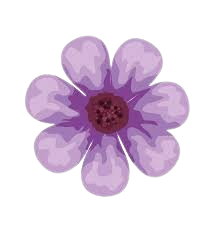
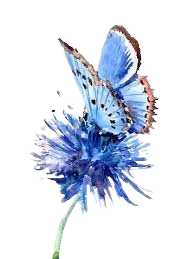
v2
v2

diff --git a/index.html b/index.html
@@ -5,10 +5,13 @@
     <meta charset="UTF-8">
     <meta name="viewport" content="width=device-width, initial-scale=1.0">
     <title>Mariana Kuhnen</title>
+    
+    <link rel="stylesheet" href="./css/index.css">
     <link rel="stylesheet" href="./css/header.css">
 </head>
 
 <body>
+    
     <header>
         <div id="logo_proficao">
             <img src="./images-removebg-preview.png" alt="Logo">
@@ -31,11 +34,12 @@
     </header>
     <section>
         <div id="img_principal">
-            <img src="https://png.pngtree.com/png-clipart/20231021/original/pngtree-watercolor-purple-flower-png-image_13393703.png">
+            <img src="il_570xN.4772852590_jq7l-removebg-preview.png" alt="">
         </div>
         <div id="infos">
-            <h1 id="primeiro_nome">Mariana</h1>
-            <h1 id="segundo_nome" class="cor_verde">Kuhnen</h1>
+           
+            <h3 id="primeiro_nome">Mariana</h3>
+            <h2 id="segundo_nome" class="cor_verde">Kuhnen</h2>
             <p>a vida é um jardim, e você escolhe quais flores cultivar</p>
         </div>
     </section>
@@ -45,5 +49,9 @@
         </button>
     </footer>
 </body>
+<iframe width="560" height="315" src="https://www.youtube.com/embed/SWQwPXtxIXg?si=b2gyBSvzuzSpRJWW" title="YouTube video player" frameborder="0" allow="accelerometer; autoplay; clipboard-write; encrypted-media; gyroscope; picture-in-picture; web-share" referrerpolicy="strict-origin-when-cross-origin" allowfullscreen></iframe>
 
 </html>
+
+
+

diff --git a/css/header.css b/css/header.css
@@ -1,14 +1,18 @@
 header {
     width: 94vw;
     height: 15vh;
-    background-color: #c383e7;
+    background-color: rgb(39, 130, 204);
     display: flex;
     flex-direction: row;
     align-items: center;
     justify-content: space-between;
     padding: 0 2vw; 
+    
 }
-
+body {
+    background-color: #5493D2; 
+    margin: 0;
+     }
 
 #logo_proficao {
     display: flex;
@@ -50,15 +54,16 @@ button.btn:hover, button.btn:focus {
 }
 
 #btn_home {
-    background-color: #c475df;
+    background-color: #59abe6;
 }
 
 #btn_formacao {
-    background-color: hwb(285 30% 43%);
+    background-color: #418FCE;
 }
 
+
 #btn_projetos {
-    background-color: hsl(285, 80%, 25%);
+    background-color: #204682;
 }
 
 section {
@@ -94,5 +99,23 @@ section {
 }
 
 .cor_verde {
-    color: #a95bd6; 
+    color: #1B4683; 
 }
+
+.video-container {
+    position: relative;
+    padding-bottom: 56.25%; 
+    height: 0;
+    overflow: hidden;
+    max-width: 100%;
+    background: #000;
+}
+
+.video-container iframe {
+    position: absolute;
+    top: 0;
+    left: 0;
+    width: 100%;
+    height: 100%;
+}
+

diff --git a/css/index.css b/css/index.css
@@ -1,8 +1,14 @@
 
-        @import url(./header.css);
+      
+        @import url('https://fonts.googleapis.com/css2?family=Allura&family=Gurajada&family=Lobster&family=Oswald:wght@200..700&family=Playfair+Display:ital,wght@0,400..900;1,400..900&family=Satisfy&display=swap');
         
         body{
           margin:0 ;
           padding:0 ;
           overflow-x: hidden;
+        }
+
+        h1{
+          font-family: "Gurajada", sans-serif;
+          
         }

diff --git a/css/img/img.css b/css/img/img.css
@@ -1,0 +1,10 @@
+#img_principal {
+    display: flex;
+    align-items: center;
+    margin-right: 2vw; 
+}
+
+#img_principal img {
+    width: 40vw;
+    height: auto;
+}

diff --git a/css/infos.css b/css/infos.css
@@ -8,5 +8,5 @@
 }
 
 .cor_verde {
-    color: #a95bd6; 
+    color: #4c9cc5; 
 }
